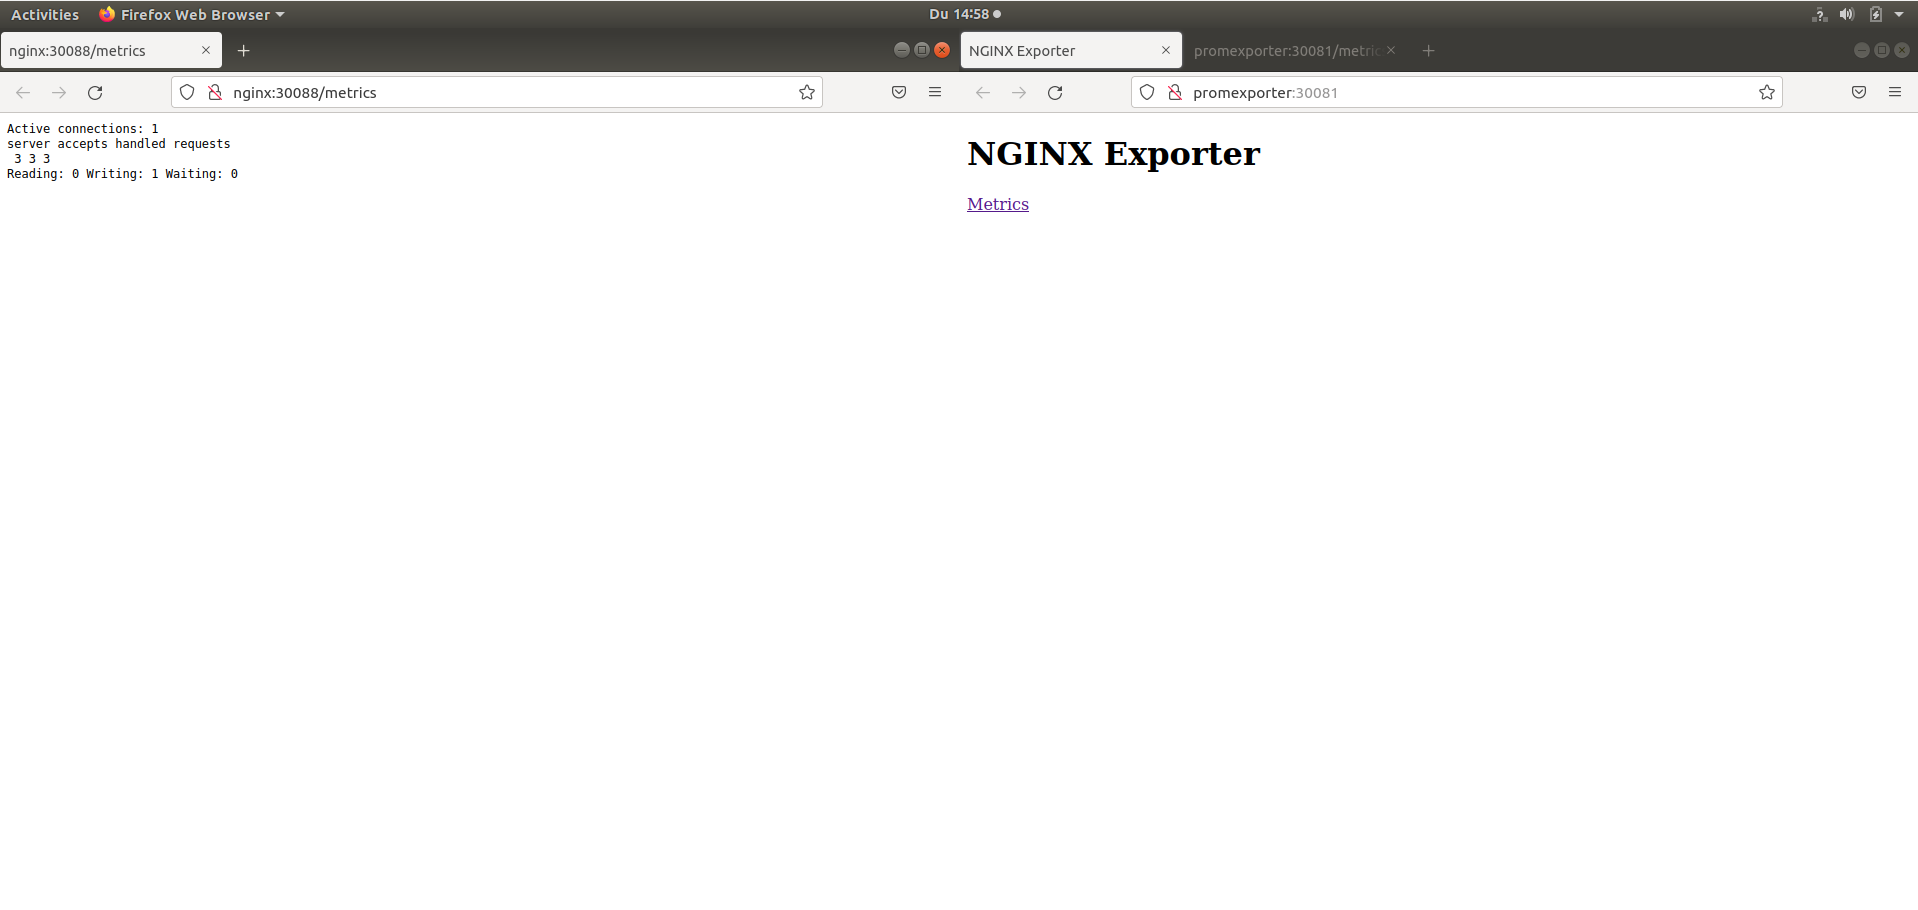
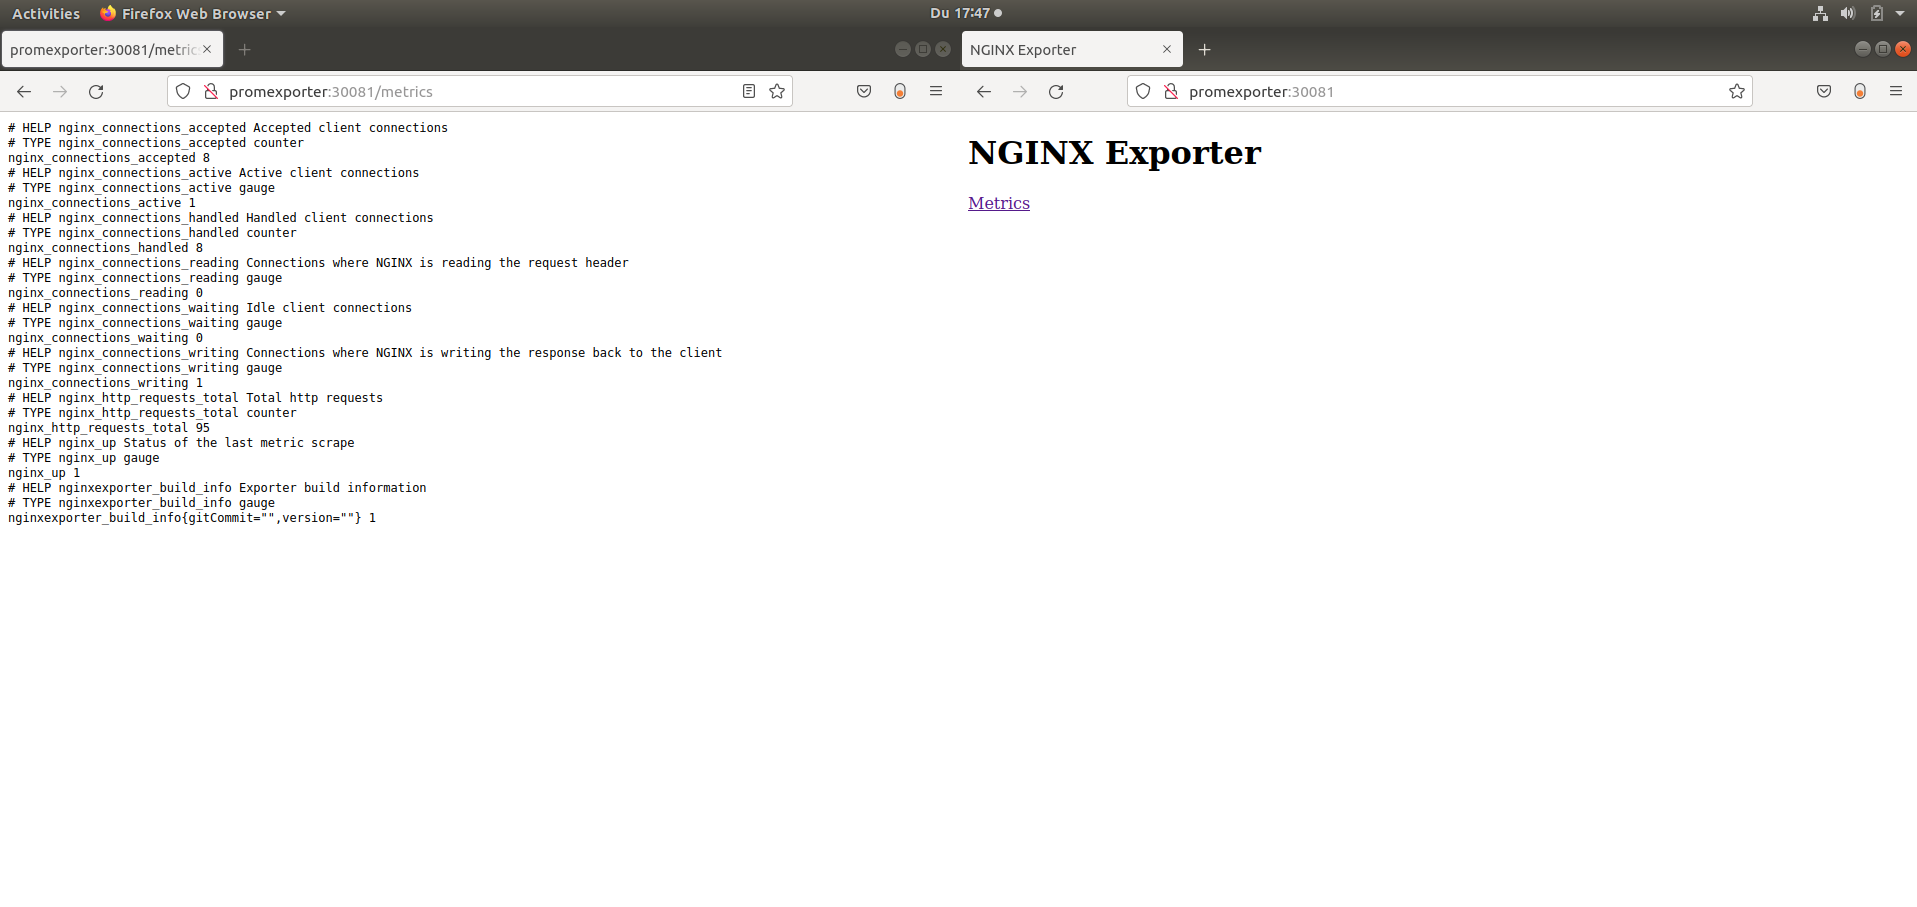
Temporary commit

diff --git a/README.md b/README.md
@@ -12,6 +12,8 @@ As pointed in the Kubernetes lab, I used the command kind to create the Kubernet
 sudo kind create cluster
 ```
 
+<img src="./screenshots/Task0%20-%20create%20cluster.png"/>
+
 ## Task 1: Deploy the nginx service
 
 First let's add the following line to **/etc/hosts** on the host VM in order to give our service a name:
@@ -20,9 +22,15 @@ First let's add the following line to **/etc/hosts** on the host VM in order to 
 172.18.0.2 nginx promexporter
 ```
 
+Create **task1** directory:
+```bash
+mkdir task1
+cd task1
+```
+
 ### 1.1 Create a ConfigMap for the HTML content 
 
-This ConfigMap will display the html for port 80 and 30080.
+This ConfigMap will display the html for port **80** within the cluster and port  **30080** outside the cluster.
 
 #### nginx-html-configmap.yaml
 ```yml
@@ -154,60 +162,22 @@ sudo kubectl apply -f nginx-service.yaml
 
 ### Output:
 
-The output can be seen in **/screenshots** folder.
+The terminal output looks as below:
 
-```azure-cli
-student@scgc:~/scgc/assignment/task1$ sudo kubectl get pods
-NAME                    READY   STATUS    RESTARTS   AGE
-nginx-c9bb45656-b5z5z   2/2     Running   0          24s
-student@scgc:~/scgc/assignment/task1$ sudo kubectl get svc
-NAME         TYPE        CLUSTER-IP      EXTERNAL-IP   PORT(S)                       AGE
-kubernetes   ClusterIP   10.96.0.1       <none>        443/TCP                       2m21s
-nginx        NodePort    10.96.198.183   <none>        80:30080/TCP,8080:30088/TCP   23s
-student@scgc:~/scgc/assignment/task1$ curl http://nginx:30080
-<html>
-    <body>
-            <h1>Hello from SCGC Assignment!</h1>
-            <h3>Miulescu Cristina-Maria, SCPD</h3>
-    </body>
-</html>
-student@scgc:~/scgc/assignment/task1$ curl http://nginx:30088
-<!DOCTYPE html>
-<html>
-<head>
-<title>Welcome to nginx!</title>
-<style>
-html { color-scheme: light dark; }
-body { width: 35em; margin: 0 auto;
-font-family: Tahoma, Verdana, Arial, sans-serif; }
-</style>
-</head>
-<body>
-<h1>Welcome to nginx!</h1>
-<p>If you see this page, the nginx web server is successfully installed and
-working. Further configuration is required.</p>
+<img src="./screenshots/Task1%20-%20output%20terminal.png"/>
 
-<p>For online documentation and support please refer to
-<a href="http://nginx.org/">nginx.org</a>.<br/>
-Commercial support is available at
-<a href="http://nginx.com/">nginx.com</a>.</p>
+Also, in the browser:
+- left side: http://nginx:30088/metrics
+- right side: http://nginx:30080
 
-<p><em>Thank you for using nginx.</em></p>
-</body>
-</html>
-student@scgc:~/scgc/assignment/task1$ curl http://nginx:30088/metrics
-Active connections: 1 
-server accepts handled requests
- 2 2 2 
-Reading: 0 Writing: 1 Waiting: 0 
-
-```
+<img src="./screenshots/Task1%20-%20output%20browser.png"/>
 
 ## Task 2: Deploy Prometheus
 
 Next we will go to the **/task2** directory:
 
 ```bash
+mkdir task2
 cd task2
 ```
 
@@ -234,7 +204,7 @@ data:
 ```
 
 ### 2.2 Create Deployment for promexporter
-
+The promexporter will get its metrics info from http://nginx:8080/metrics :
 #### prom-deployment.yaml
 ```yaml
 apiVersion: apps/v1
@@ -278,6 +248,7 @@ spec:
 
 ### 2.3 Create Service for promexporter
 
+The promexporter will have port **9113** within the cluster and port **30081** outside the cluster:
 #### prom-service.yaml
 ```yml
 apiVersion: v1
@@ -305,50 +276,116 @@ sudo kubectl apply -f prom-service.yaml
 
 ### Output:
 
-```azurecli
-student@scgc:~/scgc/assignment/task2$ sudo kubectl get pods
-NAME                            READY   STATUS    RESTARTS   AGE
-nginx-c9bb45656-b5z5z           2/2     Running   0          27m
-promexporter-7796c99ff6-flc5k   2/2     Running   0          5m21s
-student@scgc:~/scgc/assignment/task2$ sudo kubectl get svc
-NAME           TYPE        CLUSTER-IP      EXTERNAL-IP   PORT(S)                       AGE
-kubernetes     ClusterIP   10.96.0.1       <none>        443/TCP                       29m
-nginx          NodePort    10.96.198.183   <none>        80:30080/TCP,8080:30088/TCP   27m
-promexporter   NodePort    10.96.109.16    <none>        9113:30081/TCP                5m18s
-student@scgc:~/scgc/assignment/task2$ curl http://promexporter:30081
-<!DOCTYPE html>
-			<title>NGINX Exporter</title>
-			<h1>NGINX Exporter</h1>
-			<p><a href="/metrics">Metrics</a></p>student@scgc:~/scgc/assignment/task2$ 
-student@scgc:~/scgc/assignment/task2$ curl http://promexporter:30081/metrics
-# HELP nginx_connections_accepted Accepted client connections
-# TYPE nginx_connections_accepted counter
-nginx_connections_accepted 5
-# HELP nginx_connections_active Active client connections
-# TYPE nginx_connections_active gauge
-nginx_connections_active 1
-# HELP nginx_connections_handled Handled client connections
-# TYPE nginx_connections_handled counter
-nginx_connections_handled 5
-# HELP nginx_connections_reading Connections where NGINX is reading the request header
-# TYPE nginx_connections_reading gauge
-nginx_connections_reading 0
-# HELP nginx_connections_waiting Idle client connections
-# TYPE nginx_connections_waiting gauge
-nginx_connections_waiting 0
-# HELP nginx_connections_writing Connections where NGINX is writing the response back to the client
-# TYPE nginx_connections_writing gauge
-nginx_connections_writing 1
-# HELP nginx_http_requests_total Total http requests
-# TYPE nginx_http_requests_total counter
-nginx_http_requests_total 7
-# HELP nginx_up Status of the last metric scrape
-# TYPE nginx_up gauge
-nginx_up 1
-# HELP nginxexporter_build_info Exporter build information
-# TYPE nginxexporter_build_info gauge
-nginxexporter_build_info{gitCommit="",version=""} 1
-student@scgc:~/scgc/assignment/task2$ 
+The terminal output:
 
+<img src="./screenshots/Task2%20-%20output%20terminal.png"/>
+
+The browser output:
+- left side: http://promexporter:30081/metrics
+- right side: http://promexporter:30081
+
+<img src="./screenshots/Task2%20-%20output%20browser.png">
+
+## Task 3: 
+
+### 3.1 Create **monitoring** namespace:
+
+```bash
+sudo kubectl create namespace monitoring
 ```
 
+### 3.2 Install prometheus using helm
+```bash
+$ sudo helm repo add prometheus-community https://prometheus-community.github.io/helm-charts
+$ sudo helm install prometheus prometheus-community/prometheus -n monitoring
+```
+
+### 3.3 Port-forrward
+
+```bash
+sudo kubectl -n monitoring port-forward services/prometheus-server 30082:80
+```
+
+### 3.4 Open a new terminal and edit the configMap of prometheus-server:
+```bash
+sudo kubectl -n monitoring edit cm prometheus-server
+```
+
+Add this line:
+```yml
+- job_name: prometheus
+      static_configs:
+      - targets:
+        - localhost:9090
+    # Add this
+    - job_name: promexporter
+      static_configs:
+      - targets:
+        - promexporter:30081
+```
+**Note:** I also tried with _promexporter.default.svc.cluster.local:9113_ as indicated but it did not show the metrics when accessing the link.
+
+### 3.5 Test
+
+```bash
+curl http://localhost:30082
+```
+
+### Output:
+
+Going to http://localhost:30082, you shold see the following:
+
+<img src="./screenshots/Task3%20-%20view.png">
+
+Under **/targets** :
+
+<img src="./screenshots/Task3%20-%20output%20browser.png">
+
+We can find under **/targets** our **promexporter**:
+
+<img src="./screenshots/Task3%20-%20output%20promexporter.png">
+
+<br/>
+
+#### Query a metric:
+
+Also, go to **Graph** and query a metric, like “nginx_connections_accepted”:
+
+<img src="./screenshots/Task3%20-%20query.png">
+
+## Task 4: Grafana
+
+### 4.1 Install Grafana
+Next, I installed Grafana using helm chart on the **monitoring** namespace:
+
+```bash
+sudo helm repo add bitnami https://charts.bitnami.com/bitnami
+sudo helm install grafana bitnami/grafana
+```
+
+<img src="./screenshots/Task4%20-%20grafana.png">
+
+
+### 4.2 Port-forward Grafana
+
+```bash
+sudo kubectl -n monitoring port-forward svc/grafana 30085:3000
+```
+
+### 4.3 Grafana UI
+
+We can access Grafana UI on http://localhost:30085, the port we forwarded to.
+
+First we have to find out the password in order to login:
+
+```bash
+student@scgc:~$ echo "Password: $(sudo kubectl get secret grafana-admin --namespace monitoring -o jsonpath="{.data.GF_SECURITY_ADMIN_PASSWORD}" | base64 --decode)"
+[sudo] password for student: 
+Password: 2kOvyXZklL
+```
+
+So the credentials are:
+- Username: admin
+- Password: 2kOvyXZklL
+
+<img src="./screenshots/Task4%20-%20grafana%20ui.png">
